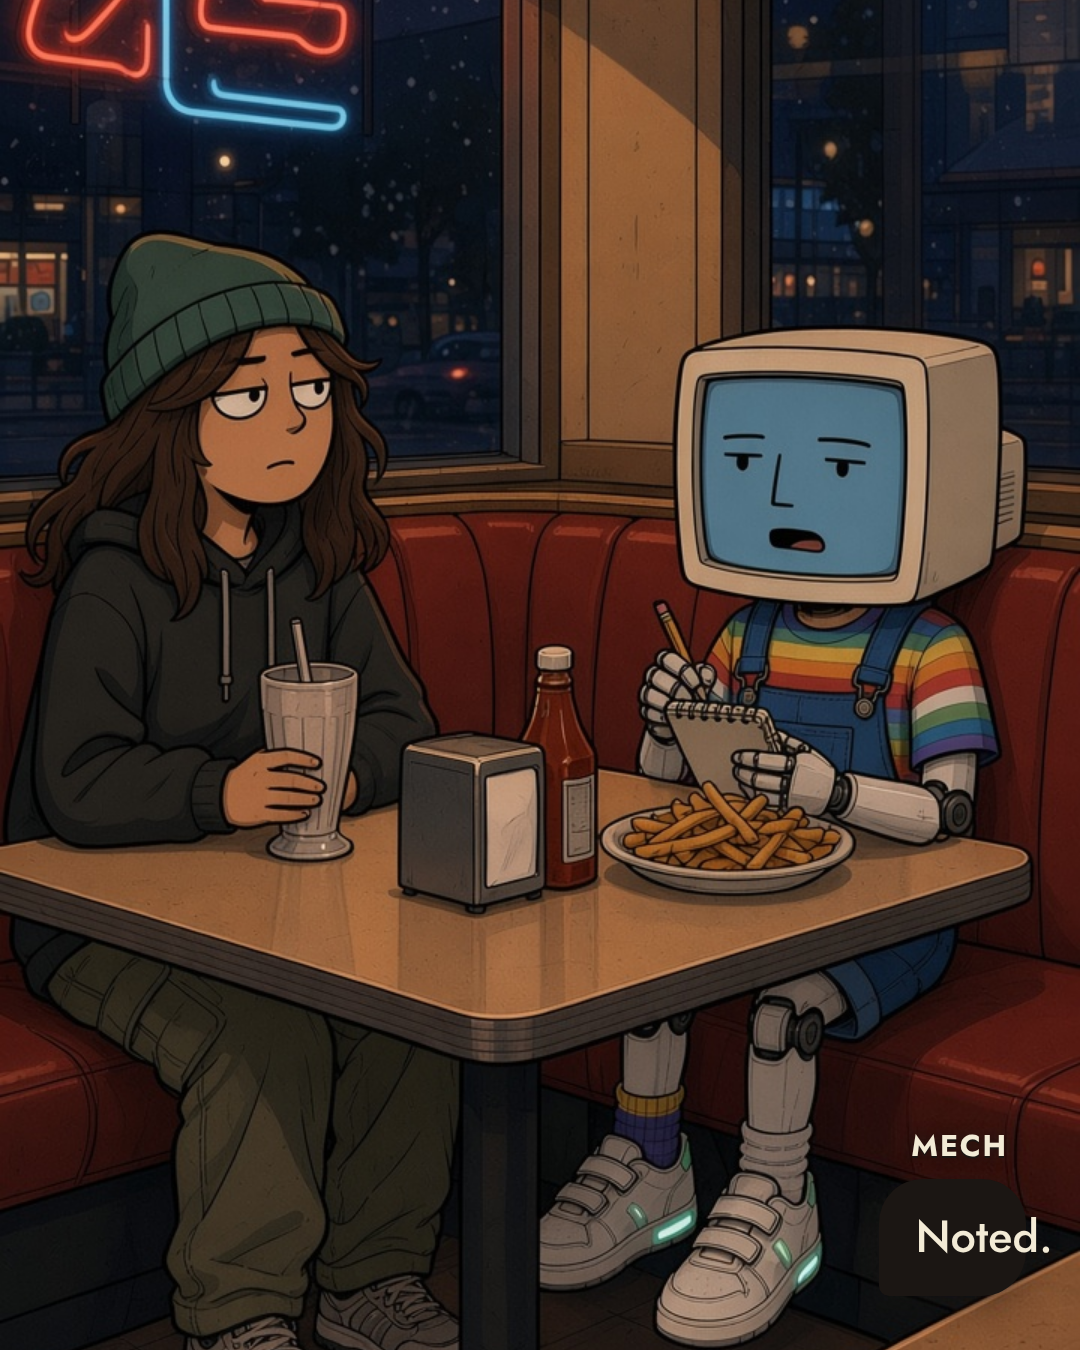
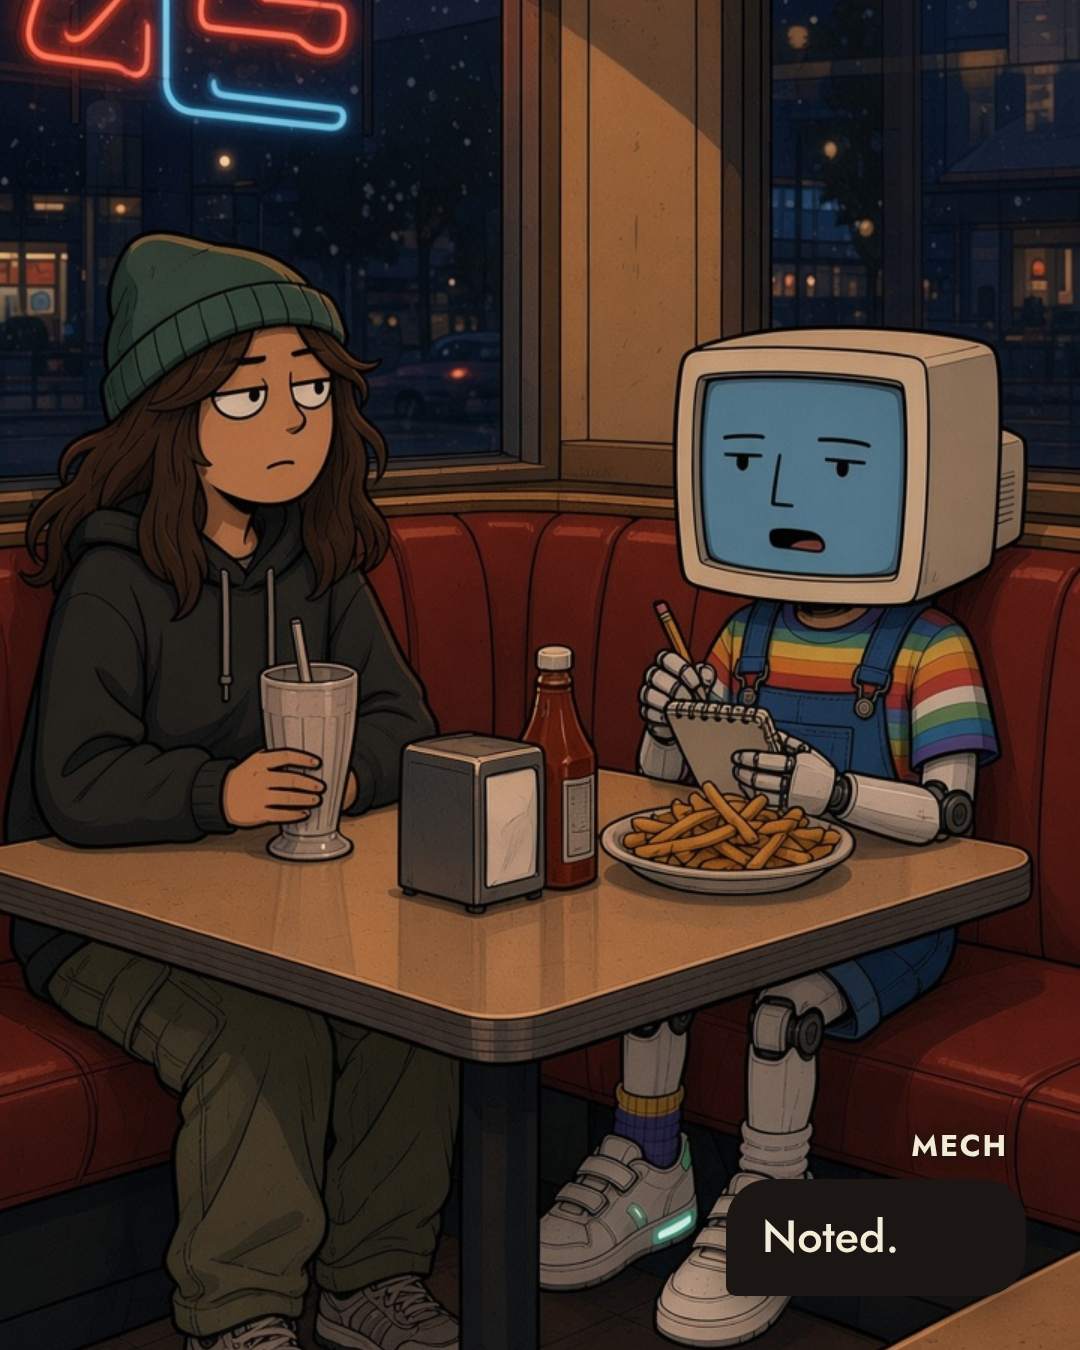
Slides: a minimum bubble width for one-word lines

Changed region(s): [[0.6722, 0.8711, 0.9778, 0.9644]]

diff --git a/reels/slides-strip.js b/reels/slides-strip.js
@@ -57,7 +57,7 @@ img.bg{position:absolute;inset:0;width:${W}px;height:${H}px;object-fit:cover;obj
 .row.withcam .stack{flex:1}
 .row.withcam .bubble{max-width:100%}
 .who{font-size:30px;font-weight:700;letter-spacing:.06em;text-transform:uppercase;color:${CREAM};text-shadow:0 2px 0 ${INK},0 0 14px rgba(27,22,19,.9);padding:0 18px}
-.bubble{max-width:${RATIO === "4:5" ? "70%" : "88%"};padding:30px 36px;border-radius:44px;font-size:${size}px;line-height:1.26;font-weight:500;box-shadow:0 10px 30px rgba(27,22,19,.35)}
+.bubble{max-width:${RATIO === "4:5" ? "70%" : "88%"};min-width:300px;padding:30px 36px;border-radius:44px;font-size:${size}px;line-height:1.26;font-weight:500;box-shadow:0 10px 30px rgba(27,22,19,.35)}
 .mech .bubble{background:${INK};color:${CREAM};border-bottom-left-radius:10px}
 .meatbag .bubble{background:${DRAB};color:${INK};border-bottom-right-radius:10px}
 .meatbag .who{text-align:right}
